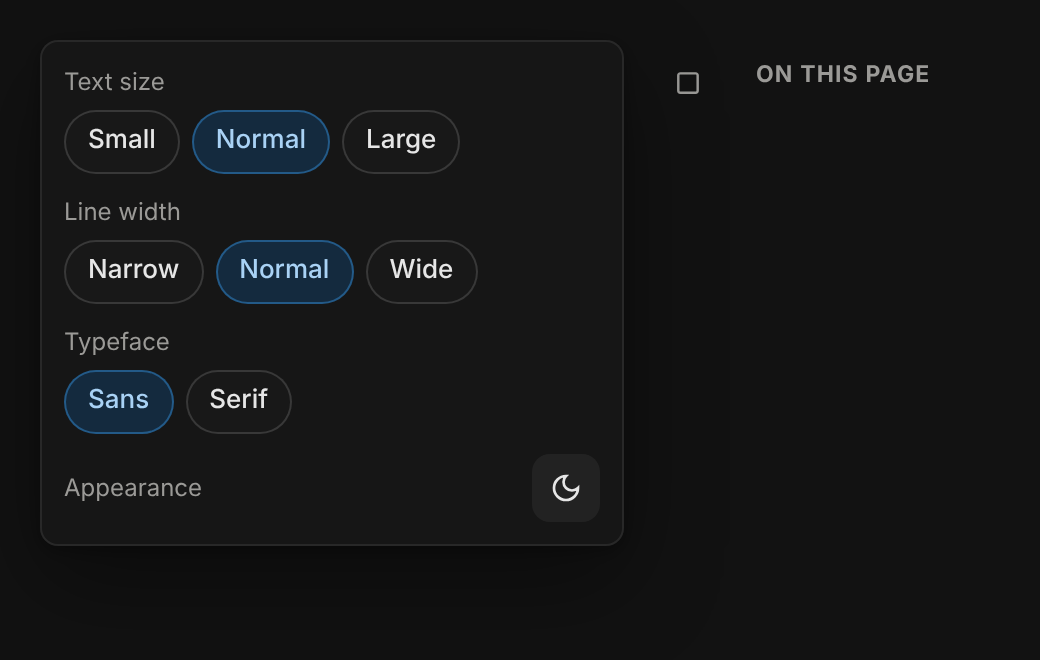
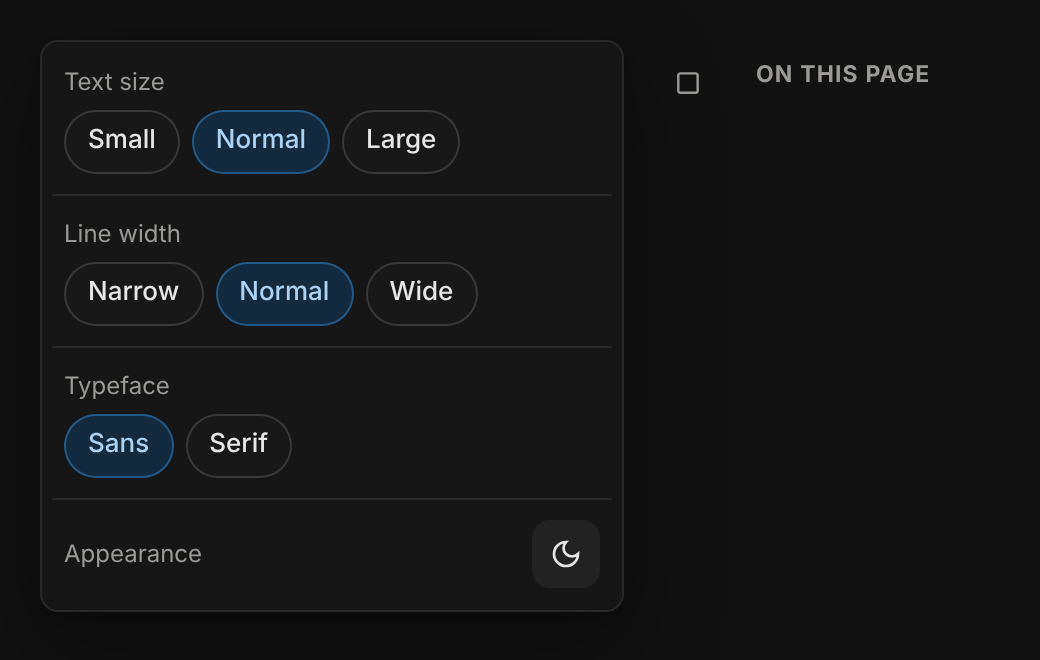
Let creators hide quiz answers after submitting, and divide the reader menus
- Quiz forms get "Show answers after submitting" (on by default) beside Quiz
  mode in the builder. Off, the submission review returns only marks: no
  answer key, no explanations. Stored as quiz.showAnswers on the definition.
- The ChatGPT/Claude MCP tools take and return showAnswers on create_form,
  update_form and get_form, and the server instructions say when to turn it
  off.
- Text and Listen menus: a hairline between each setting; a hint stays with
  its setting and the two voice rows stay together.

Claude-Session: https://claude.ai/code/session_01TZNmpCxmxx9VMjjtzpHqgw

diff --git a/lib/mcp/server.ts b/lib/mcp/server.ts
@@ -55,7 +55,7 @@ const baseInstructions = `Chaos (chaos.fail) is where this person builds forms, 
 - Lessons: search_lessons/list_lessons use scope owned for drafts or public for published discovery. get_lesson draft and get_lesson_outline with outlineFrom draft require edit permission; outlines default to published. get_lesson and get_lesson_outline return bounded pages: offset 0?500, limit 1?100; follow nextOffset until null instead of claiming the first page is complete. Keep stable block IDs and use the current expectedRevision for edits; on conflict reload before making a reviewed change.
 - Teams: Personal is one user. Business teams (free for a limited time) share editing: list_teams, create_team, invite_team_member (returns a single-use link; Chaos sends no email), list_team_members, change_team_member_role, remove_team_member, share_with_team and list_team_resources. Team-only (internal) content: publish_lesson, publish_course and publish_flashcard_set with visibility restricted and teamId; set_form_response_controls with access signed_in and audienceTeamId for forms and quizzes; host_game with teamId. Only members of that team can read, respond or join. Invite, remove or change roles only on explicit request.
 - Folders: list_folders and list_folder_contents use paginationOpts and continueCursor, including empty partial pages. create_folder creates an owned private folder; add_folder_member requires ownership of both folder and asset; move_folder needs explicit relocation intent. Folder changes never publish content.
-- A quiz is a form with quizMode on. For "make a quiz about what we discussed", write the questions from the conversation yourself: mostly single_choice with 3–4 options, set correctAnswers to the exact option label, and give points.
+- A quiz is a form with quizMode on. For "make a quiz about what we discussed", write the questions from the conversation yourself: mostly single_choice with 3–4 options, set correctAnswers to the exact option label, and give points. Respondents see the correct answers and explanations after submitting; set showAnswers false for a graded test whose key must stay private.
 - Write like a real teacher or organiser, not a brochure. Each question is one short, direct sentence (usually under 15 words) that tests one fact or asks one thing. Options are 1–5 words, parallel in form, and every wrong option is plausible; no "All of the above", joke options or filler. Leave question descriptions empty unless a hint is truly needed. A quiz explanation, if any, is one plain sentence saying why the answer is right. Titles are 2–6 words; the intro is one sentence or empty. No emojis, exclamation marks, hype ("ultimate", "fun-filled", "dive into", "journey", "test your knowledge") or restating the question in the options.
 - Use natural, human language in all content and chat replies. Write short, clear sentences. Avoid em dashes; use periods or commas instead. Avoid promotional wording, jargon, stock phrases and filler. Match the person's language, including natural Arabic when they write in Arabic.
 - Keep chat replies short: one or two sentences on what you made, then the link. Do not list the questions back unless the person asks.
@@ -96,6 +96,7 @@ const formFields = {
   title: z.string().min(1).max(200),
   description: z.string().max(5000).optional().describe("Intro text shown at the top."),
   quizMode: z.boolean().optional().describe("true for a scored quiz with an answer key."),
+  showAnswers: z.boolean().optional().describe("Quiz mode only: after submitting, respondents see which answers were right, the correct answers and the explanations (default true). false shows only their marks, for tests whose key must stay private."),
   presentation: z.enum(MCP_PRESENTATIONS).optional().describe("page = all questions on one page (default); one_at_a_time = one question per screen; sections = one page per section; swipe = full-screen cards."),
   questions: z.array(question).max(200),
   theme: z.string().max(60).optional().describe("Optional look by name, e.g. Lilac (default), Banner, Paper, Evergreen, Spotlight (Typeform-like), Midnight (dark). See list_themes."),
@@ -387,6 +388,7 @@ export function createChaosMcpServer(options: { call: McpCaller | null; resource
         title: formFields.title.optional(),
         description: formFields.description,
         quizMode: formFields.quizMode,
+        showAnswers: formFields.showAnswers,
         presentation: formFields.presentation,
         questions: formFields.questions.optional().describe("The complete new question list."),
       }),

diff --git a/app/[lang]/(app)/dashboard/forms/[formId]/page.tsx b/app/[lang]/(app)/dashboard/forms/[formId]/page.tsx
@@ -85,7 +85,7 @@ const copy = {
     results: (n: number) => `Results${n > 0 ? ` (${n})` : ""}`, preview: "Preview",
     publishing: "Publishing…", awaiting: "Awaiting approval", requestPublication: "Request publication", publishChanges: "Publish changes", publishedLabel: "Published", publish: "Publish",
     share: "Share", moreActions: "More actions", unpin: "Unpin from sidebar", pin: "Pin to sidebar", openLive: "Open live page", copyLink: "Copy link",
-    quizTitle: "Quiz title", formTitle: "Form title", untitledQuiz: "Untitled quiz", untitledForm: "Untitled form", quizMode: "Quiz mode", changeLimits: "Change limits in Settings",
+    quizTitle: "Quiz title", formTitle: "Form title", untitledQuiz: "Untitled quiz", untitledForm: "Untitled form", quizMode: "Quiz mode", showAnswers: "Show answers after submitting", showAnswersHelp: "Respondents see what they got wrong, the correct answers and your explanations. Turn off to show only their score.", changeLimits: "Change limits in Settings",
     kindQuiz: "quiz", kindForm: "form",
     role: (role: string, kind: string) => `You are ${role === "editor" ? "an editor" : "a viewer"} of this ${kind}. `,
     createdFrom: (kind: string, label: string) => `Created from ${kind === "integration" ? "a connected app" : kind}: ${label}`,
@@ -111,7 +111,7 @@ const copy = {
     results: (n: number) => `النتائج${n > 0 ? ` (${n})` : ""}`, preview: "معاينة",
     publishing: "جارٍ النشر…", awaiting: "بانتظار الموافقة", requestPublication: "اطلب النشر", publishChanges: "انشر التغييرات", publishedLabel: "منشور", publish: "انشر",
     share: "مشاركة", moreActions: "إجراءات أخرى", unpin: "إلغاء التثبيت من الشريط الجانبي", pin: "ثبّت في الشريط الجانبي", openLive: "افتح الصفحة المنشورة", copyLink: "انسخ الرابط",
-    quizTitle: "عنوان الاختبار", formTitle: "عنوان النموذج", untitledQuiz: "اختبار بلا عنوان", untitledForm: "نموذج بلا عنوان", quizMode: "وضع الاختبار", changeLimits: "غيّر الحدود من الإعدادات",
+    quizTitle: "عنوان الاختبار", formTitle: "عنوان النموذج", untitledQuiz: "اختبار بلا عنوان", untitledForm: "نموذج بلا عنوان", quizMode: "وضع الاختبار", showAnswers: "إظهار الإجابات بعد الإرسال", showAnswersHelp: "يرى المجيبون ما أخطؤوا فيه والإجابات الصحيحة وشروحك. أوقفه لإظهار الدرجة فقط.", changeLimits: "غيّر الحدود من الإعدادات",
     kindQuiz: "الاختبار", kindForm: "النموذج",
     role: (role: string, kind: string) => `أنت ${role === "editor" ? "محرر" : "مشاهد"} في هذا ${kind === "الاختبار" ? "الاختبار" : "النموذج"}. `,
     createdFrom: (kind: string, label: string) => `أُنشئ من ${{ integration: "تطبيق متصل", template: "قالب", import: "استيراد", copy: "نسخة" }[kind] ?? kind}: ${label}`,
@@ -312,7 +312,16 @@ function FormBuilder({ formId }: { formId: Id<"forms"> }) {
           <div className="flex items-center gap-3 flex-wrap mt-2">
             <StatusBadge status={data.status} edited={data.hasUnpublishedChanges || (published && dirty)} />
             <span className="text-[var(--ws-line-strong)]" aria-hidden="true">|</span>
-            <WsSwitch checked={quiz} disabled={!canEdit} label={t.quizMode} onChange={(on) => d.change((x) => ({ ...x, quiz: { enabled: on } }))} />
+            <WsSwitch checked={quiz} disabled={!canEdit} label={t.quizMode} onChange={(on) => d.change((x) => ({ ...x, quiz: { ...x.quiz, enabled: on } }))} />
+            {quiz && (
+              <>
+                <span className="text-[var(--ws-line-strong)]" aria-hidden="true">|</span>
+                <span title={t.showAnswersHelp}>
+                  <WsSwitch checked={def.quiz?.showAnswers !== false} disabled={!canEdit} label={t.showAnswers}
+                    onChange={(on) => d.change((x) => ({ ...x, quiz: { enabled: true, ...(on ? {} : { showAnswers: false }) } }))} />
+                </span>
+              </>
+            )}
             {limits.length > 0 && (
               <>
                 <span className="text-[var(--ws-line-strong)]" aria-hidden="true">|</span>

diff --git a/convex/mcpContract.ts b/convex/mcpContract.ts
@@ -78,6 +78,8 @@ export interface McpFormInput {
   title: string;
   description?: string;
   quizMode?: boolean;
+  /** Quiz mode: whether respondents see the answer key and explanations after submitting (default true). */
+  showAnswers?: boolean;
   presentation?: McpPresentation;
   questions: McpQuestion[];
   theme?: McpThemePatch;
@@ -261,6 +263,10 @@ export function parseFormInput(raw: unknown, partial = false): { input: Partial<
     if (typeof b.quizMode !== "boolean") errors.push("quizMode must be true or false.");
     else out.quizMode = b.quizMode;
   }
+  if (b.showAnswers !== undefined) {
+    if (typeof b.showAnswers !== "boolean") errors.push("showAnswers must be true or false.");
+    else out.showAnswers = b.showAnswers;
+  }
   if (b.presentation !== undefined) {
     if (!MCP_PRESENTATIONS.includes(b.presentation as McpPresentation)) errors.push(`presentation must be one of ${MCP_PRESENTATIONS.join(", ")}.`);
     else out.presentation = b.presentation as McpPresentation;
@@ -416,7 +422,8 @@ export function toDefinition(input: Partial<McpFormInput>, previous?: FormDefini
     presentation: input.presentation ? toPresentation[input.presentation] : base.presentation,
     fields,
   };
-  if (quizEnabled) def.quiz = { enabled: true };
+  const showAnswers = input.showAnswers ?? base.quiz?.showAnswers;
+  if (quizEnabled) def.quiz = showAnswers === false ? { enabled: true, showAnswers: false } : { enabled: true };
   else delete def.quiz;
   // Forms created from ChatGPT start with sound on (Glass); edits keep whatever the form has.
   const sound = input.sound ?? (previous ? undefined : "soft");
@@ -431,7 +438,7 @@ export interface McpQuestionView extends McpQuestion {
 }
 
 /** The draft as the model sees it. Answer keys are included: only the owner can call this. */
-export function fromDefinition(def: FormDefinition): { title: string; description: string; quizMode: boolean; presentation: McpPresentation; questions: McpQuestionView[]; unsupported: string[]; theme: ReturnType<typeof themeView> } {
+export function fromDefinition(def: FormDefinition): { title: string; description: string; quizMode: boolean; showAnswers?: boolean; presentation: McpPresentation; questions: McpQuestionView[]; unsupported: string[]; theme: ReturnType<typeof themeView> } {
   const unsupported = new Set<string>();
   const questions: McpQuestionView[] = [];
   for (const f of def.fields) {
@@ -463,6 +470,7 @@ export function fromDefinition(def: FormDefinition): { title: string; descriptio
     title: def.title,
     description: def.description,
     quizMode: !!def.quiz?.enabled,
+    ...(def.quiz?.enabled ? { showAnswers: def.quiz.showAnswers !== false } : {}),
     presentation: fromPresentation[def.presentation] ?? "page",
     questions,
     unsupported: [...unsupported],

diff --git a/tests/integration/forms.test.ts b/tests/integration/forms.test.ts
@@ -109,6 +109,26 @@ describe("forms: responses", () => {
     expect((await owner.query(api.formResults.getResponse, { responseId: first.responseId }))?.quizScore).toBe(4);
   });
 
+  it("returns only marks after submitting when the creator hides the answers", async () => {
+    const t = createTestConvex();
+    const owner = t.withIdentity(creatorIdentity);
+    await owner.mutation(api.quizFunctions.getOrCreateUser, {});
+    const formId = await owner.mutation(api.forms.createForm, { quizMode: true });
+    const initial = await owner.query(api.forms.getFormForEditor, { formId });
+    const definition = {
+      ...initial!.draft, quiz: { enabled: true, showAnswers: false },
+      fields: [{ id: "answer", type: "choice" as const, label: "Choose", required: true,
+        options: [{ id: "right", label: "Right" }, { id: "wrong", label: "Wrong" }],
+        quiz: { correctOptionIds: ["right"], points: 4, explanation: "Right is right." } }],
+    };
+    const saved = await owner.mutation(api.forms.saveFormDraft, { formId, expectedRevision: initial!.draftRevision, definition });
+    await owner.mutation(api.forms.publishForm, { formId, expectedRevision: saved.draftRevision });
+    const shareId = (await owner.query(api.forms.getFormForEditor, { formId }))!.shareId;
+    const missed = await t.mutation(api.respond.submitResponse, { ...submission("key-hidden-01", { answer: "wrong" }), shareId });
+    expect(missed).toMatchObject({ quizScore: 0, quizMaxScore: 4 });
+    expect(missed.quizReview).toEqual([{ fieldId: "answer", earned: 0, possible: 4, correctOptionIds: [] }]);
+  });
+
   it("records a submission once, even when retried", async () => {
     const t = createTestConvex();
     const { owner, formId, shareId } = await publishedForm(t);

diff --git a/convex/formQuiz.ts b/convex/formQuiz.ts
@@ -46,14 +46,22 @@ export interface QuizReviewItem { fieldId: string; earned: number; possible: num
 /**
  * What the respondent got right and wrong, returned only with their own submission so they can learn
  * from it. Never part of the public form: the key is revealed after the answers are in, not before.
+ * When the creator turns "Show answers after submitting" off, only marks are returned: no key, no explanation.
  */
 export function quizReview(def: FormDefinition, grade: QuizGrade | null): QuizReviewItem[] | null {
   if (!grade) return null;
+  const reveal = showsAnswers(def);
   const byId = new Map(def.fields.map((f) => [f.id, f]));
   return grade.questions.map((q) => {
     const quiz = byId.get(q.fieldId)?.quiz;
+    if (!reveal) return { fieldId: q.fieldId, earned: q.earned, possible: q.possible, correctOptionIds: [] };
     return { fieldId: q.fieldId, earned: q.earned, possible: q.possible, correctOptionIds: quiz?.correctOptionIds ?? [], ...(quiz?.explanation ? { explanation: quiz.explanation } : {}) };
   });
+}
+
+/** Whether respondents see the answer key after submitting. On unless the creator turned it off. */
+export function showsAnswers(def: Pick<FormDefinition, "quiz">): boolean {
+  return def.quiz?.showAnswers !== false;
 }
 
 /** The public form and edit link must never contain answer keys or option scores. */

diff --git a/tests/unit/mcpContract.test.ts b/tests/unit/mcpContract.test.ts
@@ -44,6 +44,17 @@ describe("ChatGPT app contract", () => {
     expect(edited.title).toBe(def.title);
   });
 
+  it("carries whether respondents see the answers after submitting, and keeps it on edits that leave it out", () => {
+    expect(fromDefinition(toDefinition(quiz)).showAnswers).toBe(true);
+    const hidden = toDefinition({ ...quiz, showAnswers: false });
+    expect(hidden.quiz).toEqual({ enabled: true, showAnswers: false });
+    expect(fromDefinition(hidden).showAnswers).toBe(false);
+    expect(toDefinition({ title: "Renamed" }, hidden).quiz).toEqual({ enabled: true, showAnswers: false });
+    expect(toDefinition({ showAnswers: true }, hidden).quiz).toEqual({ enabled: true });
+    expect(fromDefinition(toDefinition({ ...quiz, quizMode: false })).showAnswers).toBeUndefined();
+    expect(parseFormInput({ ...quiz, showAnswers: "no" })).toMatchObject({ errors: expect.arrayContaining(["showAnswers must be true or false."]) });
+  });
+
   it("rejects answer keys that do not match an option and keys on text questions", () => {
     const bad = parseFormInput({ title: "x", questions: [
       { type: "single_choice", label: "Q", options: ["A", "B"], correctAnswers: ["C"] },

diff --git a/components/learn/learn.css b/components/learn/learn.css
@@ -763,6 +763,9 @@ mark.lx-hl[data-color="pink"] { background: rgba(244, 114, 182, .3); }
 .lx-reading-menu__value { color: var(--on-surface-variant); font-size: 12.5px; font-weight: 450; max-width: 10em; overflow: hidden; text-overflow: ellipsis; white-space: nowrap; }
 .lx-reading-menu__hint { color: var(--on-surface-variant); font-size: 12px; line-height: 1.45; margin-top: -4px; }
 .lx-reading-menu hr { margin: 0 -6px; }
+/* A hairline between each setting in the Text and Listen menus (a hint stays with the setting above it,
+   and the two voice rows stay together). It runs edge to edge, like the menu's own dividers. */
+:is(.lx-reading-menu__body, .lx-level) > * + :not(.lx-reading-menu__hint, hr, .lx-voice-row + .lx-voice-row) { margin-inline: -6px; padding: 10px 6px 0; border-top: 1px solid var(--ws-line); }
 /* Choices are chips, not full-width menu rows. */
 .ws-menu .lx-chip { display: inline-flex; width: auto; min-height: 32px; padding: 4px 11px; border-radius: 999px; font-size: 13px; font-weight: 500; }
 .lx-narr-swatches { display: flex; flex-wrap: wrap; gap: 6px; }

diff --git a/tests/integration/mcp.test.ts b/tests/integration/mcp.test.ts
@@ -28,6 +28,15 @@ describe("ChatGPT app backend", () => {
     expect(user?.email).toBe("new@example.com");
   });
 
+  it("creates a quiz that keeps its answers hidden after submitting, and turns them back on", async () => {
+    const t = await setup();
+    const created = await t.mutation(internal.mcp.createForm, { userId: owner, input: { ...quizInput, showAnswers: false } });
+    const form = (await t.query(internal.mcp.getForm, { userId: owner, id: created.id })) as { revision: number; showAnswers?: boolean };
+    expect(form.showAnswers).toBe(false);
+    await t.mutation(internal.mcp.updateForm, { userId: owner, id: created.id, expectedRevision: form.revision, input: { showAnswers: true } });
+    expect(((await t.query(internal.mcp.getForm, { userId: owner, id: created.id })) as { showAnswers?: boolean }).showAnswers).toBe(true);
+  });
+
   it("creates a quiz draft, edits it, publishes it and summarizes results", async () => {
     const t = await setup();
     const created = await t.mutation(internal.mcp.createForm, { userId: owner, input: quizInput });

diff --git a/tests/unit/learnVideoBlock.test.tsx b/tests/unit/learnVideoBlock.test.tsx
@@ -6,7 +6,7 @@ vi.mock("convex/react", () => ({ useConvex: () => ({}), useQuery: () => undefine
 const { default: BlockRenderer } = await import("@/components/learn/reader/BlockRenderer");
 
 const video = (url: string) => [{ id: "v", type: "video", props: { url, caption: "Portal circulation", name: "" }, children: [] }];
-const show = (content: unknown[]) => render(<LocaleProvider initial="en"><BlockRenderer content={content as never} /></LocaleProvider>);
+const show = (content: unknown[]) => render(<LocaleProvider initial="en"><BlockRenderer content={content as never} sources={[]} /></LocaleProvider>);
 
 describe("video blocks in the reader", () => {
   it("plays a YouTube link in a plain video block as a YouTube embed with its own controls", () => {

diff --git a/tests/unit/formQuiz.test.ts b/tests/unit/formQuiz.test.ts
@@ -33,6 +33,16 @@ describe("form quiz mode", () => {
     expect(quizReview(def, null)).toBeNull();
   });
 
+  it("returns only marks when the creator hides the answers", () => {
+    const def = quiz();
+    def.quiz = { enabled: true, showAnswers: false };
+    def.fields[0].quiz!.explanation = "A is right.";
+    expect(quizReview(def, gradeQuiz(def, { single: "b", multi: ["x", "z"] }))).toEqual([
+      { fieldId: "single", earned: 0, possible: 2, correctOptionIds: [] },
+      { fieldId: "multi", earned: 3, possible: 3, correctOptionIds: [] },
+    ]);
+  });
+
   it("does not send answer keys or option scores to respondents", () => {
     const source = quiz();
     const publicDef = publicQuizDefinition(source);

diff --git a/convex/formModel.ts b/convex/formModel.ts
@@ -112,7 +112,7 @@ export const definitionValidator = v.object({
   fields: v.array(fieldValidator),
   endings: v.array(endingValidator),
   theme: themeValidator,
-  quiz: v.optional(v.object({ enabled: v.boolean() })),
+  quiz: v.optional(v.object({ enabled: v.boolean(), showAnswers: v.optional(v.boolean()) })),
   translations: v.optional(v.record(v.string(), v.object({ title: v.optional(v.string()), description: v.optional(v.string()) }))),
 });
 

diff --git a/convex/formLogic.ts b/convex/formLogic.ts
@@ -208,7 +208,8 @@ export interface FormDefinition {
   fields: FormField[];
   endings: Ending[];
   theme: FormTheme;
-  quiz?: { enabled: boolean };
+  /** showAnswers: after submitting, respondents see the key and explanations (default true). */
+  quiz?: { enabled: boolean; showAnswers?: boolean };
   translations?: Record<string, { title?: string; description?: string }>;
 }
 
